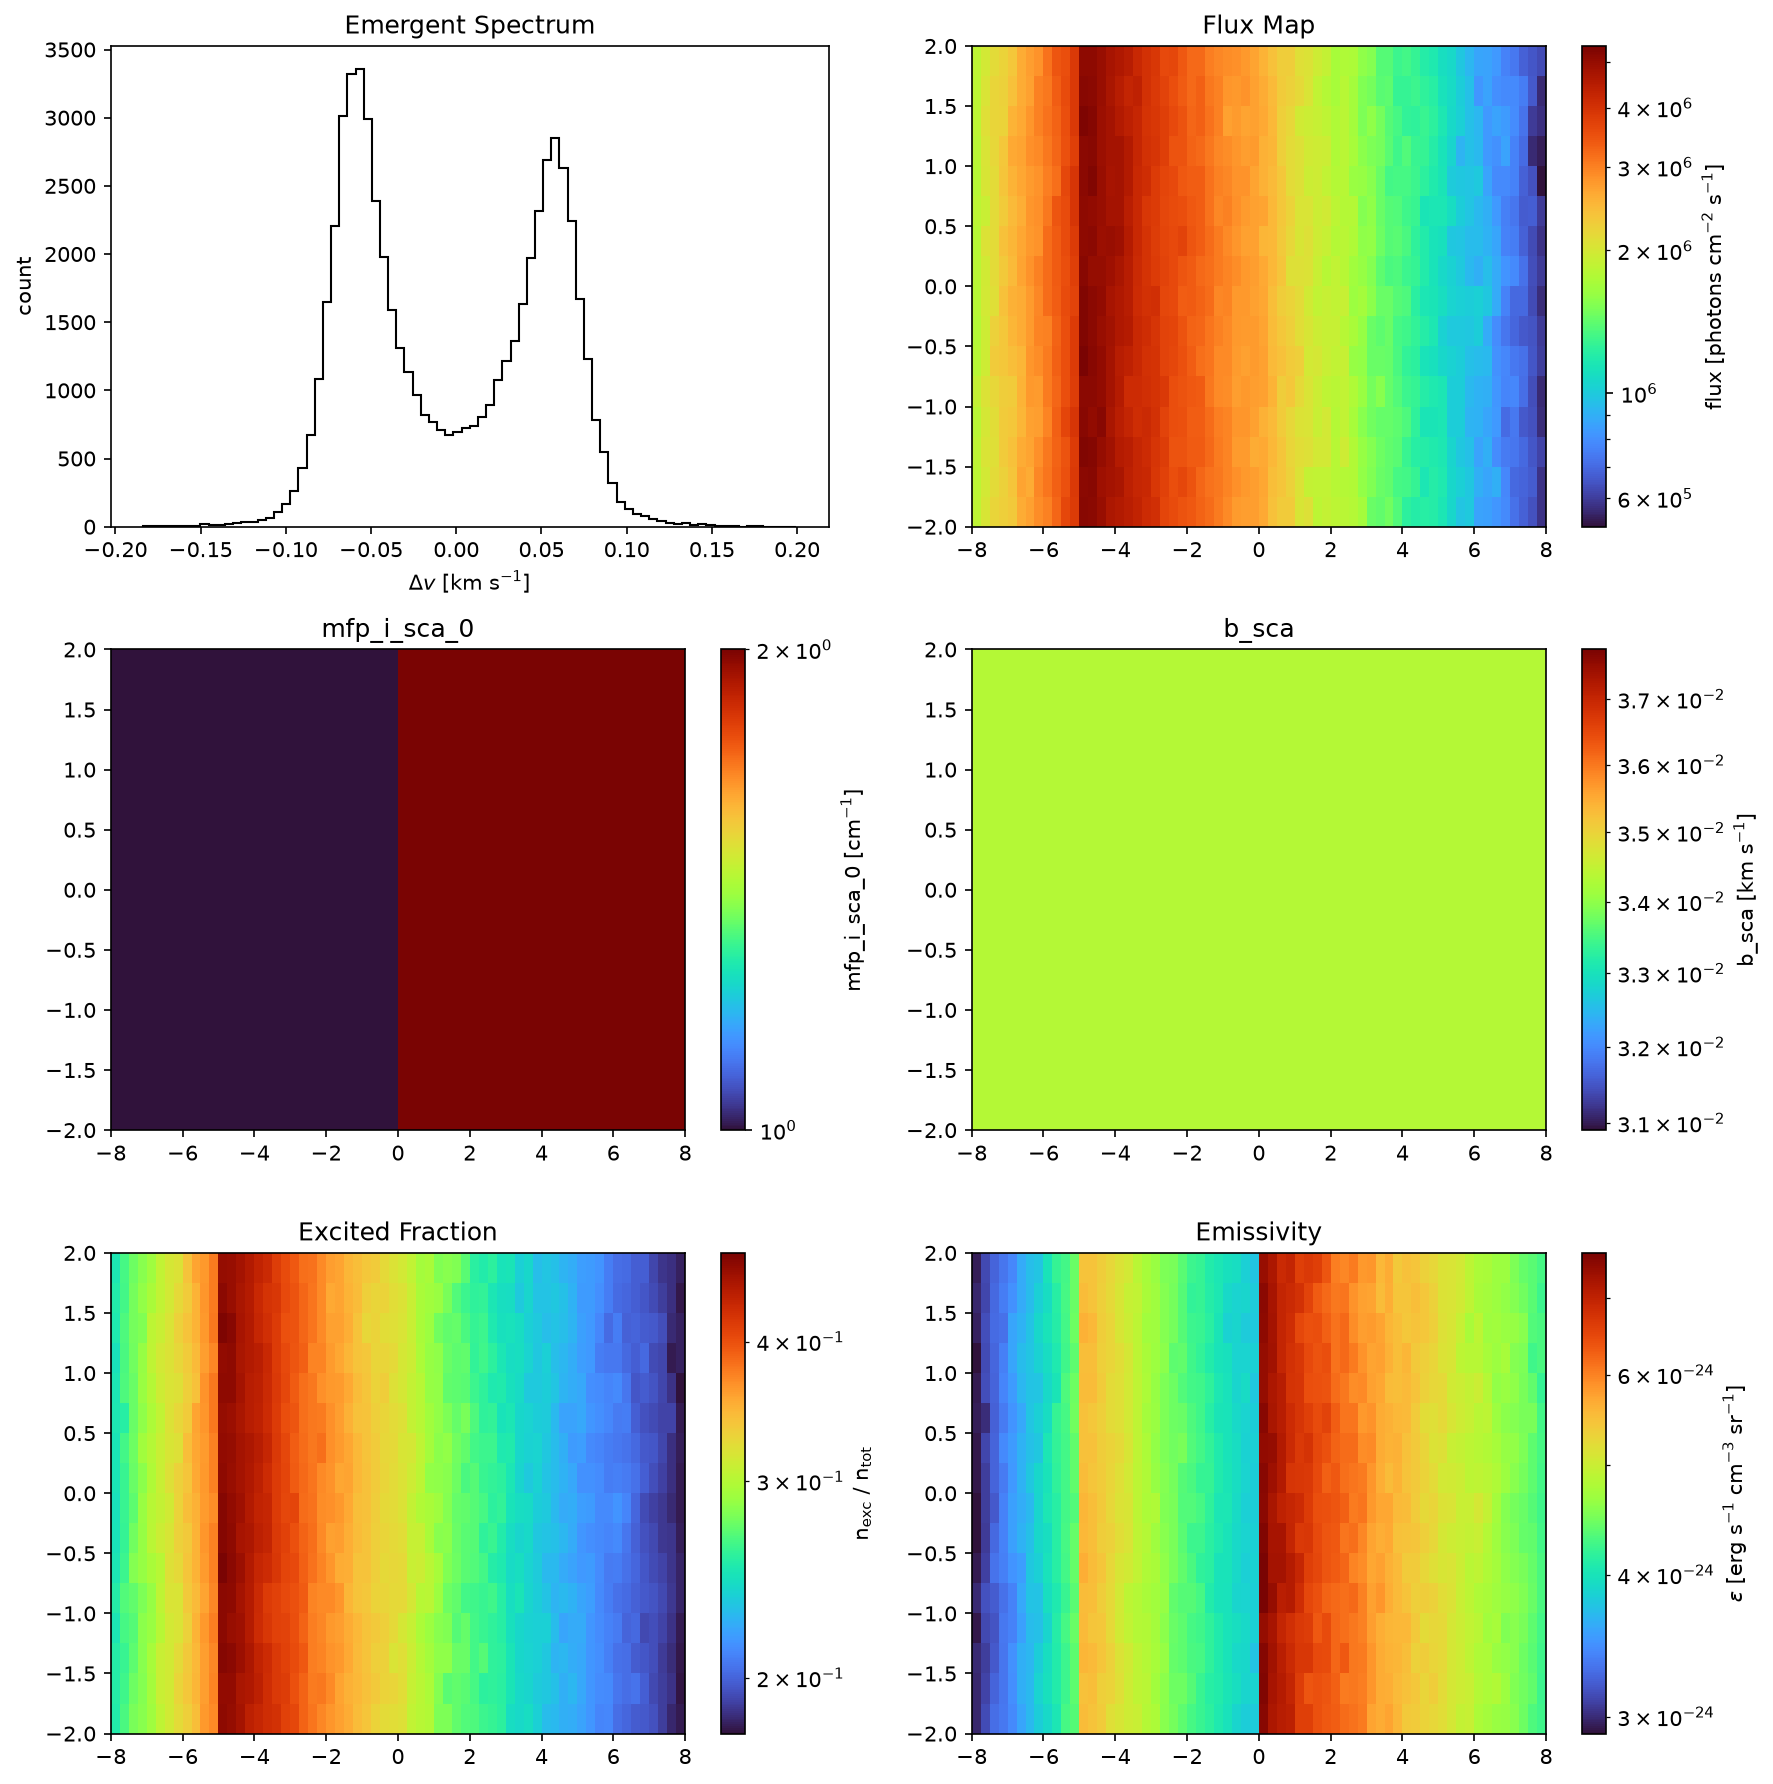
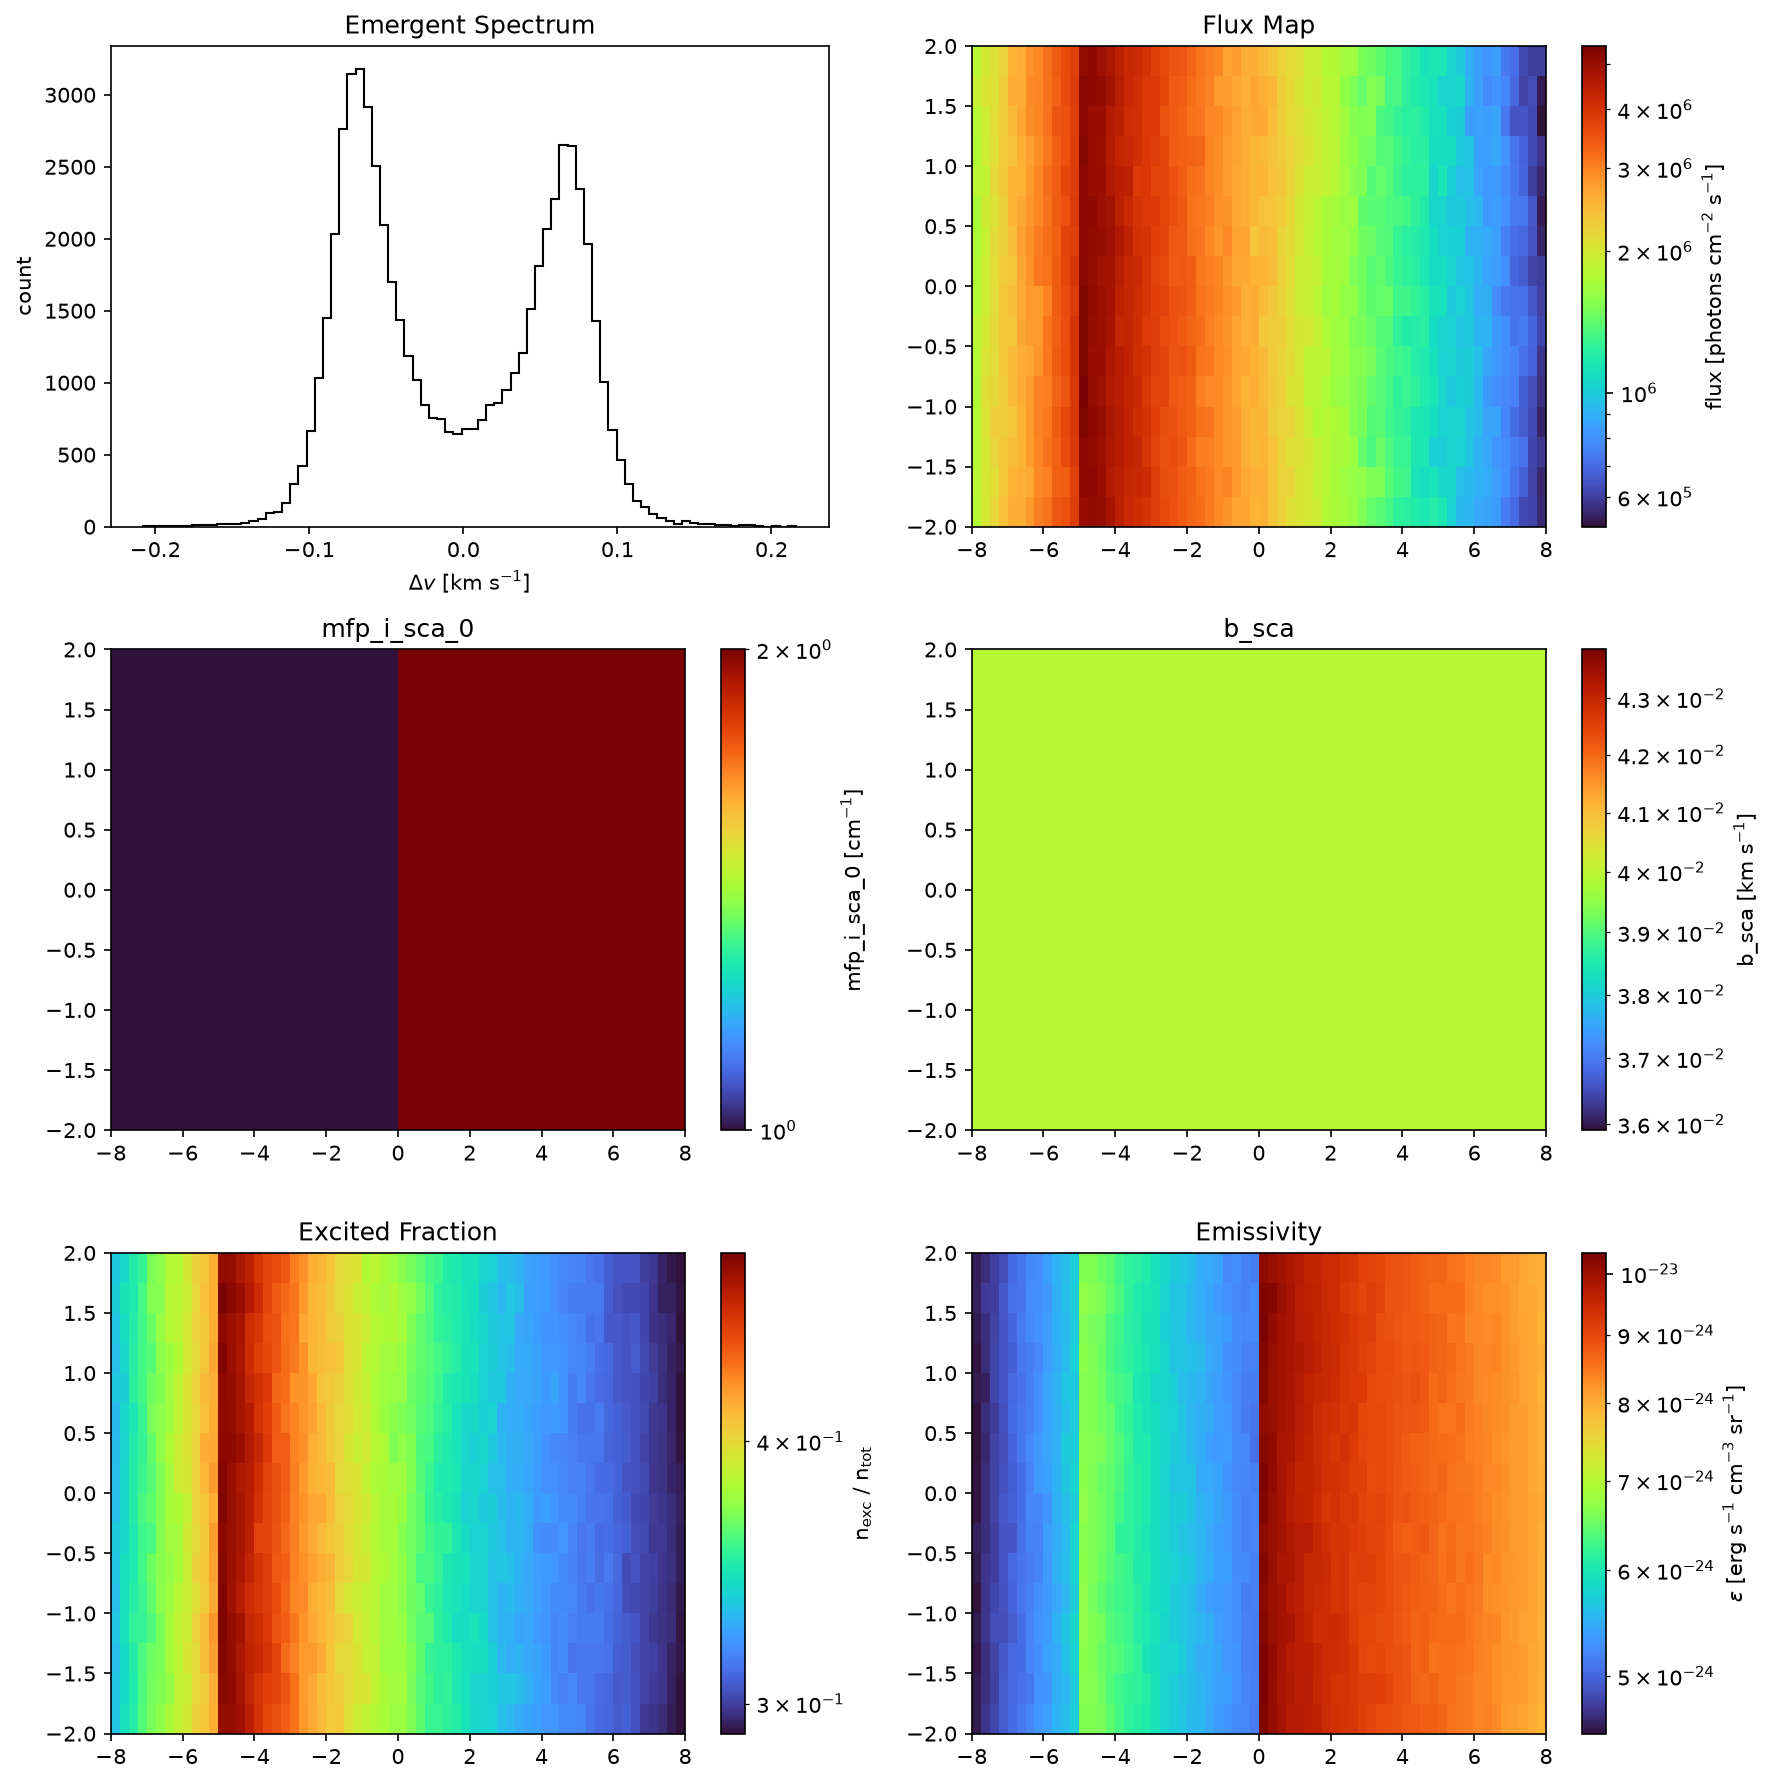
docs: refine plane_parallel_hl example script
- temperature moved into section 2.2 (T=2.7 K), tau0_slab alongside
- source sigma uses ti.doppler_b(temperature)/sqrt(2) (temperature-derived
  b_sca, not hardcoded 1e5)
- removed commented-out b_sca in LineRt constructor
- comment fix: 'all species available' for show_transitions
- separator lines aligned to show_transition() width

diff --git a/docs/examples/plane_parallel_hl.py b/docs/examples/plane_parallel_hl.py
@@ -47,9 +47,6 @@ KRATOS_ROOT = os.path.expanduser( '~/apps/kratos_line_rt' );
 AU   = line_rt.  AU;
 Lsun = line_rt.Lsun;
 
-tau0_slab   = 1e1;
-temperature = 2.0;
-
 ############################################################
 #  2. Configure LineRt (Group 1: species-based)
 #
@@ -57,26 +54,31 @@ temperature = 2.0;
 #  sigma_co) LineRt computes sigma_co internally from
 #  species + b_sca, so we pass n_species as a callable that
 #  returns the same constant.
+
 ##############################
 # 2.1 Configure the species and transition properites
 
-ti        = line_rt.TransitionInfo( 'CO', 0 );
-          # CO J=1->0 (idx 0)
-b_sca     = ti.doppler_b( temperature );
-sigma_co  = ti.cross_section( temperature );
-L_slab_cm = 10.0 * AU;   # x_min=-5, x_max=5 -> L=10 AU
-n_species = ( tau0_slab / L_slab_cm ) / sigma_co; # cm^-3
-# Or you can write n_species in cm^-3 on your own, no need to
-# compute from
-# n_species = 1e2
+# CO J=1->0 (idx 0)
+ti = line_rt.TransitionInfo( 'CO', 0 );
 
 # Show the transition information
 ti.show_transition(  );
-# Use the following line for all transitions available:
+# Use the following line for all species available:
 # ti.show_transitions(  );
 
 ##############################
 # 2.2 Define the fields
+
+temperature = 2.7;  # Kelvin
+
+tau0_slab = 1e1;
+sigma_co  = ti.cross_section( temperature );
+L_slab_cm = 10.0 * AU;   # x_min=-5, x_max=5 -> L=10 AU
+n_species = ( tau0_slab / L_slab_cm ) / sigma_co; # cm^-3
+
+# Or you can write n_species in cm^-3 on your own, no need
+# to compute from the things above, like this:
+# n_species = 1e2
 
 def n_total_callable( x, y, z ):
     res = full( x.shape, n_species );
@@ -102,7 +104,6 @@ rt = line_rt.LineRt(
     transition_info = ti,
     n_species    = n_total_callable,
     temperature  = temperature_callable,
-    # b_sca        = b_sca,
     vel          = ( vx_callable, 0.0, 0.0 ),
 
     ph_mode      = 2, # R_IIA const-mem (production)
@@ -128,17 +129,16 @@ c_cgs = 2.99792458e10;    # speed of light [cm/s]
 F0_cgs = 1e6;   # photon number flux [photons cm^-2 s^-1]
 E_ph   = h_cgs * c_cgs \
        / ( ti.transition.wavelength_um * 1e-4 );
-rt.add_source(
-    type     = 'slab', x = -5, direction = '+x',
-    n_photon = 20000,
-    flux     = F0_cgs * E_ph, # energetic flux [erg cm^-2 s^-1]
-    sigma    = b_sca / sqrt( 2 ),
-);
+rt.add_source\
+( type     = 'slab', x = -5, direction = '+x',
+  n_photon = 20000,
+  flux     = F0_cgs * E_ph, # energetic flux [erg cm^-2 s^-1]
+  sigma    = ti.doppler_b( temperature ) / sqrt( 2 ) );
 
 print( 'CO n_species=%.2e cm^-3' % n_species );
 print( 'Mesh: %s, external photon sources: %d' %
        ( rt._n_cell, len( rt._sources ) ) );
-print( '==============================' );
+print( '========================================' );
 
 ############################################################
 #  4. Run the iterations!
@@ -147,7 +147,7 @@ print( '==============================' );
 n_cycle   = 3;
 print( 'Running %d MC cycles ...' % n_cycle );
 results = rt.run( n_cycle );
-print( '==============================' );
+print( '========================================' );
 
 ############################################################
 #  5. Print run info
@@ -164,7 +164,7 @@ for k, res in enumerate( res_list ):
     else:
         print( '  Cycle %d: flx=N/A, n_esc=%d'
                % ( k, n_esc ) );
-print( '==============================' );
+print( '========================================' );
 
 ############################################################
 #  6. Plot (default multi-panel)
